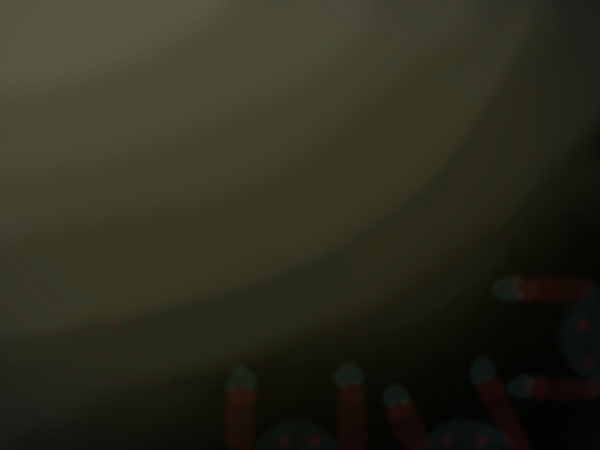
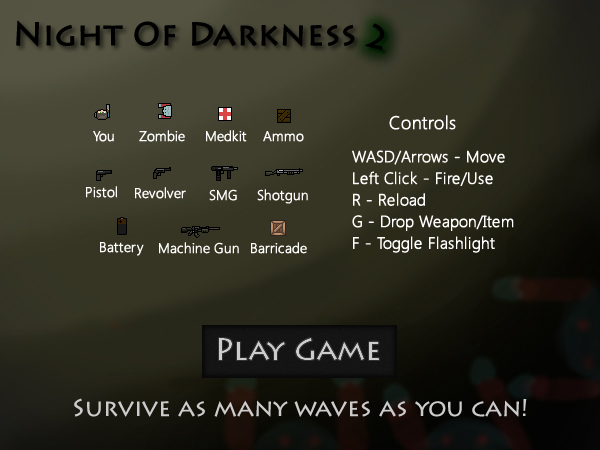
Updated Main Menu
Main menu is now one screen, added new features to 'how to play'
information.

diff --git a/js/mainmenu.js b/js/mainmenu.js
@@ -1,138 +1,46 @@
-function MainMenu(game) {
+function MainMenu() {
+	this.menuBackground = new Sprite("images/mainmenu.png", true);
+	this.buttons = [];
 	this.inMenu = true;
-	this.selectedItem = null;
-	this.items = [];
-	this.currentScreen = 0;
-	this.screens = [];
-	this.screens[0] = new MenuScreen([new MenuButton(1, "Play", "Game.start();"),
-		new MenuButton(2, "How To Play", "Game.mainMenu.currentScreen = 1"),
-		new MenuButton(3, "Options", "Game.mainMenu.currentScreen=2;")
-		//new MenuButton(4,"Credits", "Game.mainMenu.currentScreen=3;")
-	]);
-	this.screens[1] = new MenuScreen([
-		new MenuImage(150, 50, "images/tutorial.png"),
-		new MenuButton(1, "Back", "Game.mainMenu.currentScreen=0")
-	]);
-	this.screens[2] = new MenuScreen([
-		new MenuSettingButton(1, "Sound: ", "Game.sound", "Game.toggleSound()"),
-		new MenuSettingButton(2, "Particles: ", "Game.particles", "Game.toggleParticles()"),
-		new MenuButton(3, "Back", "Game.mainMenu.currentScreen=0;")
-
-	]);
-	this.screens[3] = new MenuScreen([
-		new MenuText("Programming: Lucas Penney", 300, 30),
-		new MenuText("Pixel Art: Dylan Wyke", 300, 60),
-		new MenuText("Pixel Art: Jonathan Redeker", 300, 90),
-		new MenuText("Playtesting: Cole Jorgensen", 300, 120),
-		new MenuButton(1, "Back", "Game.mainMenu.currentScreen=0")
-
-	]);
-
-	this.img = new Image();
-	this.img.src = 'images/mainmenu.png';
 }
+
+MainMenu.prototype.init = function() {
+	this.buttons.push(new Button(Game.width / 2 - 100, Game.height - 124, 200, 50, "Play Game", function() {
+		Game.start();
+	}));
+};
 
 MainMenu.prototype.render = function() {
-	ctx.fillStyle = "#000";
-	ctx.fillRect(0, 0, canvas.width, canvas.height);
-	ctx.drawImage(this.img, 0, 0);
-	this.screens[this.currentScreen].render();
-};
-
-MainMenu.prototype.update = function() {
-
-};
-
-MainMenu.prototype.handleInput = function() {
-	for (var i = 0; i < this.screens[this.currentScreen].buttons.length; i++) {
-		if (this.screens[this.currentScreen].buttons[i] instanceof MenuButton || this.screens[this.currentScreen].buttons[i] instanceof MenuSettingButton) {
-			if (this.screens[this.currentScreen].buttons[i].boundingBox.isPointIn(Game.input.mouse.x, Game.input.mouse.y)) {
-				eval(this.screens[this.currentScreen].buttons[i].func); //Execute the code associated with the menu item.
-			}
-		}
-	}
-};
-
-function MenuScreen(buttons) {
-	this.img = new Image();
-	this.img.src = 'images/mainmenu.png';
-	this.buttons = buttons;
-}
-
-MenuScreen.prototype.render = function() {
-
+	this.menuBackground.render(0, 0);
 	for (var i = 0; i < this.buttons.length; i++) {
 		this.buttons[i].render();
 	}
-
 };
 
-function MenuButton(num, text, func) {
-	this.x = 50;
-	this.y = (num * 50) + 25;
-	this.text = text;
-	this.func = func;
-	this.width = 150;
-	this.height = 50;
-	this.boundingBox = new BoundingBox(this.x, this.y - (this.height / 2), this.width, this.height);
-}
-
-MenuButton.prototype.render = function() {
-
-	ctx.textAlign = 'left';
-	ctx.font = 'normal 20pt Arial';
-	ctx.fillStyle = "#FFF";
-	ctx.fillText(this.text, this.x, this.y);
-	//ctx.fillStyle = "#00F";
-	//ctx.fillRect(this.boundingBox.x,this.boundingBox.y,this.boundingBox.width,this.boundingBox.height);
+MainMenu.prototype.update = function() {
+	for (var i = 0; i < this.buttons.length; i++) {
+		this.buttons[i].update();
+	}
 };
 
-function MenuSettingButton(num, text, variable, func) {
-	this.x = 50;
-	this.y = (num * 50) + 25;
-	this.text = text;
-	this.value = variable;
-	this.func = func;
-	this.width = 150;
-	this.height = 50;
-	this.boundingBox = new BoundingBox(this.x, this.y - (this.height / 2), this.width, this.height);
-}
-
-MenuSettingButton.prototype.render = function() {
-
-	ctx.textAlign = 'left';
-	ctx.font = 'normal 20pt Arial';
-	ctx.fillStyle = "#FFF";
-	this.finalText = this.text;
-	var x = eval(this.value);
-	if (x) x = "On";
-	else x = "Off";
-	this.finalText = this.finalText + x;
-	ctx.fillText(this.finalText, this.x, this.y);
-	//ctx.fillStyle = "#00F";
-	//ctx.fillRect(this.boundingBox.x,this.boundingBox.y,this.boundingBox.width,this.boundingBox.height);
-};
-
-function MenuText(text, x, y) {
-	this.text = text;
+function Button(x, y, width, height, text, func) {
 	this.x = x;
 	this.y = y;
+	this.width = width;
+	this.height = height;
+	this.text = text;
+	this.func = func;
+	this.boundingBox = new BoundingBox(this.x, this.y, this.width, this.height);
 }
 
-MenuText.prototype.render = function() {
-	ctx.textAlign = 'left';
-	ctx.font = 'normal 16pt Arial';
-	ctx.fillStyle = "#FFF";
-	ctx.fillText(this.text, this.x, this.y);
+Button.prototype.render = function() {
+	//Invisible buttons (using menu image)
 };
 
-function MenuImage(x, y, image) {
-	this.x = x;
-	this.y = y;
-	this.img = new Image();
-	this.img.src = image;
-}
-
-MenuImage.prototype.render = function() {
-	ctx.drawImage(this.img, this.x, this.y);
+Button.prototype.update = function() {
+	if (Game.input.mouse.down) {
+		if (this.boundingBox.isPointIn(Game.input.mouse.x, Game.input.mouse.y)) {
+			this.func();
+		}
+	}
 };

diff --git a/js/game.js b/js/game.js
@@ -44,8 +44,7 @@ function GameEngine(width, height) {
 	this.input = new InputManager();
 	this.currentLevel = 1;
 	this.inGame = true; //Are we physically in the game level
-	this.mainMenu = new MainMenu(this);
-	this.inMenu = true;
+	this.mainMenu = new MainMenu();
 	this.loaded = false;
 	this.playerDead = false;
 	this.entities = [];
@@ -61,7 +60,7 @@ GameEngine.prototype.toggleParticles = function() {
 GameEngine.prototype.start = function() {
 	this.started = true;
 	this.inGame = true;
-	this.inMenu = false;
+	this.mainMenu.inMenu = false;
 	this.level = new Level(this.currentLevel);
 	this.level.fadeIn();
 	this.player = new Player();
@@ -72,7 +71,7 @@ GameEngine.prototype.start = function() {
 GameEngine.prototype.end = function() {
 	this.started = false;
 	this.level = null;
-	this.inMenu = true;
+	this.mainMenu.inMenu = true;
 	this.entities = [];
 	this.player = null;
 	this.screen = null;
@@ -123,11 +122,12 @@ GameEngine.prototype.render = function() {
 		this.ui.drawLoadingScreen();
 		if (this.loader.getLoadPercent() == 100) {
 			this.loaded = true;
-			this.inMenu = true;
+			this.mainMenu.init();
 			return;
 		}
-	} else if (this.inMenu) {
+	} else if (this.mainMenu.inMenu) {
 		this.mainMenu.render();
+		this.mainMenu.update();
 		return; //Don't draw the game if we're not in it yet.
 	}
 	if (this.screen === null || this.screen === undefined) return;

diff --git a/js/sprite.js b/js/sprite.js
@@ -29,7 +29,7 @@ function Sprite(img, useFullImg) {
 }
 
 Sprite.prototype.render = function(x, y) {
-	ctx.drawImage(this.img, this.xOffset, this.yOffset, this.width, this.height, x, y, this.width * this.scale, this.width * this.scale);
+	ctx.drawImage(this.img, this.xOffset, this.yOffset, this.width, this.height, x, y, this.width * this.scale, this.height * this.scale);
 };
 Sprite.prototype.renderOnScreen = function(x, y) {
 	if (!this.loaded) return;

diff --git a/js/input.js b/js/input.js
@@ -102,5 +102,4 @@ $('#canvas').mousemove(function(e) {
 //Mouse clicks hook
 $("#canvas").click(function(e) {
 	window.focus();
-	if (Game.inMenu) Game.mainMenu.handleInput();
 });
